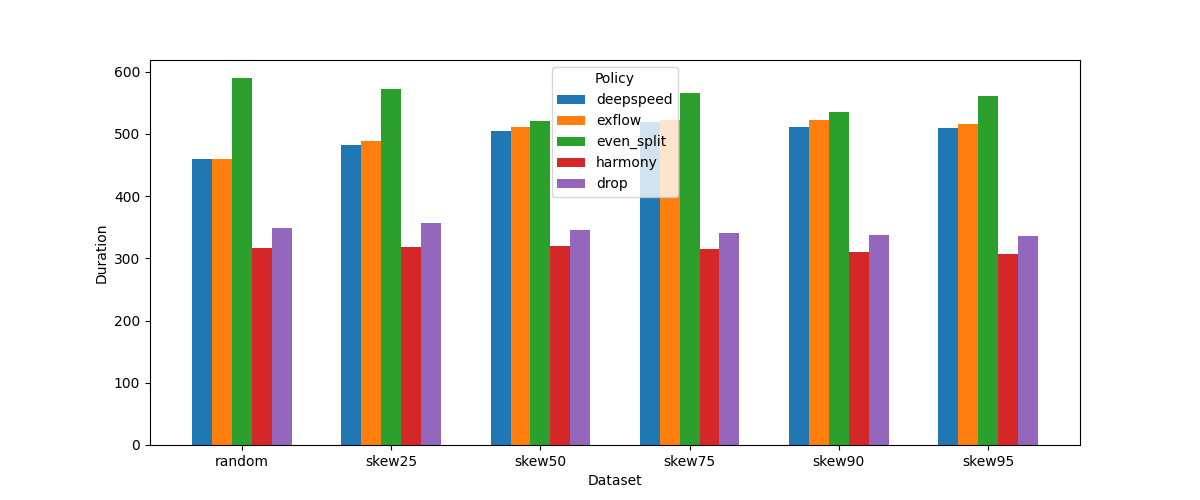
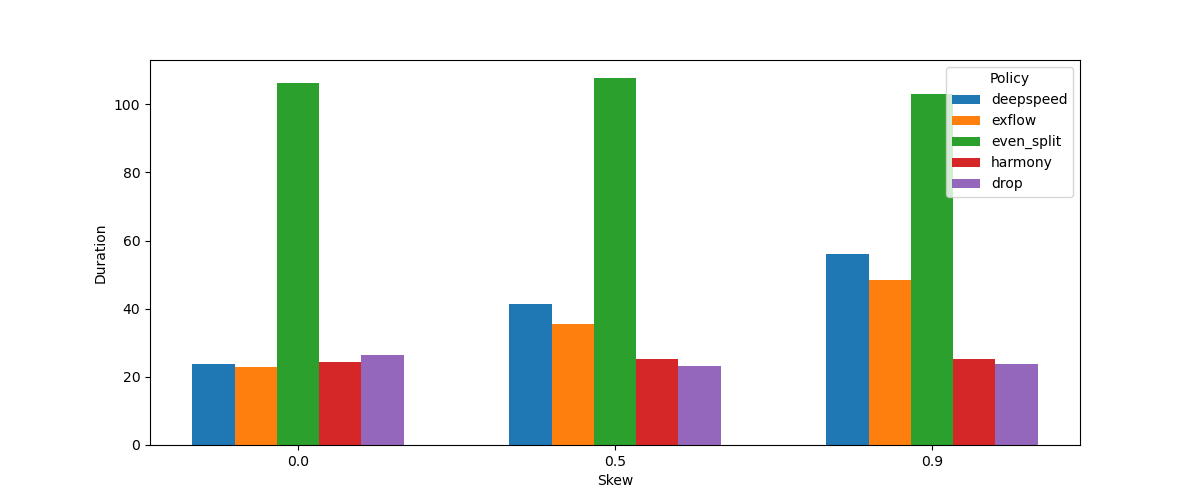
At a safe margin where successfully exec policy skew

diff --git a/plotting/plotting/plot_policy_skew.py b/plotting/plotting/plot_policy_skew.py
@@ -5,49 +5,52 @@ import numpy as np
 from utils import save_plot
 
 policies = ["deepspeed", "exflow", "even_split", "harmony", "drop"]
-datasets = ["random", "skew25", "skew50", "skew75", "skew90", "skew95"]
+datasets = [0.0, 0.5, 0.9]
 num_moe_layers = 12
+
+ys = ["duration (s)", "throughput (toks/s)"]
 
 def plot_workload_duration_policy_vs_dataset():
     df = pd.read_csv(f"../data_processed/policies/skew/workload_duration_policy_vs_dataset.csv", index_col=0)
 
     df["policy"] = pd.Categorical(df["policy"], categories=policies, ordered=True)
 
-    # Pivot the DataFrame
-    pivot_df = df.pivot(index="dataset", columns="policy", values="duration (s)")
+    for y in ys:
+        # Pivot the DataFrame
+        pivot_df = df.pivot(index="dataset", columns="policy", values=y)
 
-    # Define the bar width and positions
-    bar_width = 0.2
-    dataset_gap = 0.5 
-    num_policies = len(pivot_df.columns)
-    x_positions = []
-    current_x = 0
+        # Define the bar width and positions
+        bar_width = 0.2
+        dataset_gap = 0.5 
+        num_policies = len(pivot_df.columns)
+        x_positions = []
+        current_x = 0
 
-    for _ in range(len(pivot_df.index)):
-        x_positions.append(np.arange(current_x, current_x + num_policies * bar_width, bar_width))
-        current_x += num_policies * bar_width + dataset_gap
+        for _ in range(len(pivot_df.index)):
+            x_positions.append(np.arange(current_x, current_x + num_policies * bar_width, bar_width))
+            current_x += num_policies * bar_width + dataset_gap
 
-    x_positions = np.array(x_positions)
+        x_positions = np.array(x_positions)
 
-    fig, ax = plt.subplots(figsize=(12, 5))
+        fig, ax = plt.subplots(figsize=(12, 5))
 
-    color_palette = colormaps.get_cmap("tab10")  
-    policy_colors = {policy: color_palette(i) for i, policy in enumerate(policies)}
+        color_palette = colormaps.get_cmap("tab10")  
+        policy_colors = {policy: color_palette(i) for i, policy in enumerate(policies)}
 
-    for i, (dataset, positions) in enumerate(zip(pivot_df.index, x_positions)):
-        for j, sys in enumerate(pivot_df.columns):
-            ax.bar(positions[j], pivot_df.loc[dataset, sys], width=bar_width, color=policy_colors[sys], label=sys if i == 0 else "")
+        for i, (dataset, positions) in enumerate(zip(pivot_df.index, x_positions)):
+            for j, sys in enumerate(pivot_df.columns):
+                ax.bar(positions[j], pivot_df.loc[dataset, sys], width=bar_width, color=policy_colors[sys], label=sys if i == 0 else "")
 
-    # Flatten x_positions for xticks and add gaps for visualization
-    flat_x_positions = [positions.mean() for positions in x_positions]
+        # Flatten x_positions for xticks and add gaps for visualization
+        flat_x_positions = [positions.mean() for positions in x_positions]
 
-    ax.set_xticks(flat_x_positions)
-    ax.set_xticklabels(pivot_df.index)
-    ax.set_xlabel("Dataset")
-    ax.set_ylabel("Duration")
-    ax.legend(title="Policy")
+        ax.set_xticks(flat_x_positions)
+        ax.set_xticklabels(pivot_df.index)
+        ax.set_xlabel("skew")
+        ax.set_ylabel(y)
+        ax.legend(title="policy")
 
-    save_plot(plt, "../figures/policies/skew/workload_duration_policy_vs_dataset.png")
+        save_plot(plt, f"../figures/policies/skew/workload_{y}_policy_vs_dataset.png")
 
 if __name__ == "__main__":
     plot_workload_duration_policy_vs_dataset()

diff --git a/src/harmonymoe/fetching_strategies/asynchronous_cpu.py b/src/harmonymoe/fetching_strategies/asynchronous_cpu.py
@@ -4,6 +4,7 @@ import nvtx
 class AsynchronousCPU:
     def __init__(self, config):
         self.config = config
+        self.local_cache = self.config.cache[self.config.rank]
 
         self.load_stream = torch.cuda.Stream()
         self.comp_stream = torch.cuda.Stream()
@@ -13,6 +14,8 @@ class AsynchronousCPU:
         self.expert_loaded = [
             torch.cuda.Event(enable_timing=False) for _ in range(config.num_experts)
         ]
+
+        self.loaded_not_loaded = self.loaded_not_loaded_mixed
 
 
     def load_expert_into_slot(self, expert_idx, slot_idx):
@@ -32,13 +35,10 @@ class AsynchronousCPU:
 
                 self.expert_loaded[expert_idx].record(stream=self.load_stream)
 
-    def generate_work_order(self, expert_mask):
+    def loaded_not_loaded_ordered(self, expert_mask):
         loaded = []
         not_loaded = []
-        slots = []
 
-        # First collect all experts that need to execute
-        # Break them down between those loaded and not loaded
         for i in range(self.config.num_experts):
             if expert_mask[i].shape[0] != 0:
                 if (
@@ -55,6 +55,34 @@ class AsynchronousCPU:
                     )
                 else:
                     not_loaded.append(i)
+
+        return loaded, not_loaded 
+
+    def loaded_not_loaded_mixed(self, expert_mask):
+        loaded = []
+        not_loaded = []
+
+        for i in range(self.config.num_experts):
+            if expert_mask[i].shape[0] != 0:
+                try:
+                    slot_idx = self.local_cache.index(i)
+
+                    # expert_idx, slot_idx, num_toks
+                    loaded.append(
+                        (
+                            i,
+                            slot_idx,
+                            expert_mask[i].shape[0]
+                        )
+                    )
+                except ValueError:
+                    not_loaded.append(i)
+        
+        return loaded, not_loaded
+
+    def generate_work_order(self, expert_mask):
+        slots = []
+        loaded, not_loaded = self.loaded_not_loaded(expert_mask)
 
         loaded.sort(reverse=True, key=lambda x: x[2])
         loaded_slots = list(map(lambda x: x[1], loaded))
@@ -88,7 +116,7 @@ class AsynchronousCPU:
             #     f"Executing expert {expert_idx} on slot {slot_idx}", color="blue"
             # ):
             with torch.cuda.stream(self.comp_stream):
-                if expert_idx != self.config.cache[self.config.rank][slot_idx]:
+                if expert_idx != self.local_cache[slot_idx]:
                     self.comp_stream.wait_event(
                         self.expert_loaded[expert_idx]
                     )
@@ -104,10 +132,10 @@ class AsynchronousCPU:
                 self.load_expert_into_slot(need_loading[next_load_idx], slot_idx)
                 next_load_idx += 1
             elif (
-                expert_idx != self.config.cache[self.config.rank][slot_idx]
+                expert_idx != self.local_cache[slot_idx]
             ):  # Nothing else to load, do I need to bring in the original?
                 self.load_expert_into_slot(
-                    self.config.cache[self.config.rank][slot_idx], slot_idx
+                    self.local_cache[slot_idx], slot_idx
                 )
 
         return tokens

diff --git a/plotting/create_csv/create_csv_policy_skew.py b/plotting/create_csv/create_csv_policy_skew.py
@@ -4,11 +4,11 @@ import pandas as pd
 import ast
 import os
 
-directory_path = "../data/policies/skew"
+directory_path = "../outputs/exp-policies-skew"
 data = Data(directory_path)
 
 policies = ["deepspeed", "exflow", "even_split", "harmony", "drop"]
-datasets = ["random", "skew25", "skew50", "skew75", "skew90", "skew95"]
+datasets = [0.0, 0.5, 0.9]
 num_ranks = 8
 num_moe_layers = 12
 
@@ -17,10 +17,12 @@ def create_workload_duration_policy_vs_dataset():
     for policy in policies:
         for dataset in datasets:
             _df = data.load(f"{dataset}/{policy}/0/e2e.csv")
+            meta = data.read_meta(f"{dataset}/{policy}")
             df.append({
                 "policy": policy,
                 "dataset": dataset,
-                "duration (s)": _df["latency (s)"].sum(axis=0)
+                "duration (s)": _df["latency (s)"].sum(axis=0),
+                "throughput (toks/s)": meta["num_samples"] / _df["latency (s)"].sum(axis=0)
             })
     save_pd(pd.DataFrame(df), "../data_processed/policies/skew/workload_duration_policy_vs_dataset.csv")
 

diff --git a/src/harmonymoe/scheduler.py b/src/harmonymoe/scheduler.py
@@ -72,11 +72,14 @@ class Scheduler:
 
     def get_cache(self):
         if self.gpu_to_experts_list is not None:
-            return list(
-                map(
-                    lambda x: list(map(lambda y: y.item(), x)), self.gpu_to_experts_list
-                )
-            )
+            # if self.scheduling_policy == "exflow":
+            #     return self.gpu_to_experts_list[:]
+            # return list(
+            #     map(
+            #         lambda x: list(map(lambda y: y.item(), x)), self.gpu_to_experts_list
+            #     )
+            # )
+            return self.gpu_to_experts_list
         else:
             return None
 
@@ -226,7 +229,7 @@ class Scheduler:
 
     def generate_expert_gpu_to_gpu_expert(self, expert_gpu):
         return [
-            (expert_gpu == i).nonzero(as_tuple=False).flatten()
+            (expert_gpu == i).nonzero(as_tuple=False).flatten().tolist()
             for i in range(self.num_gpus)
         ]
 
